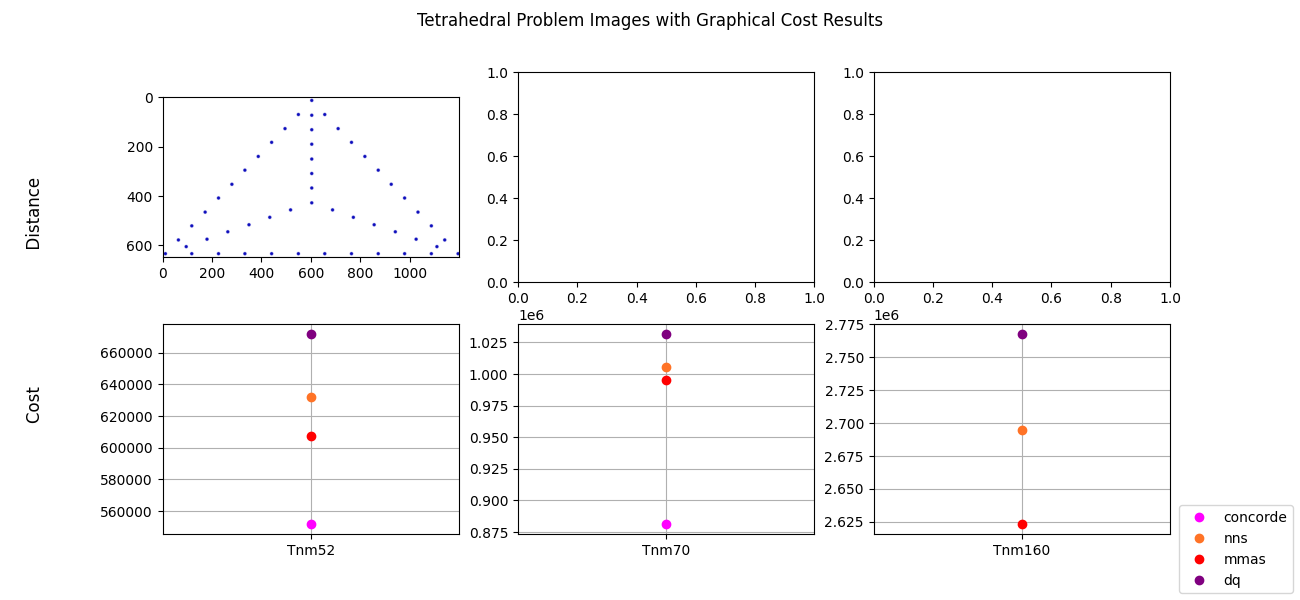
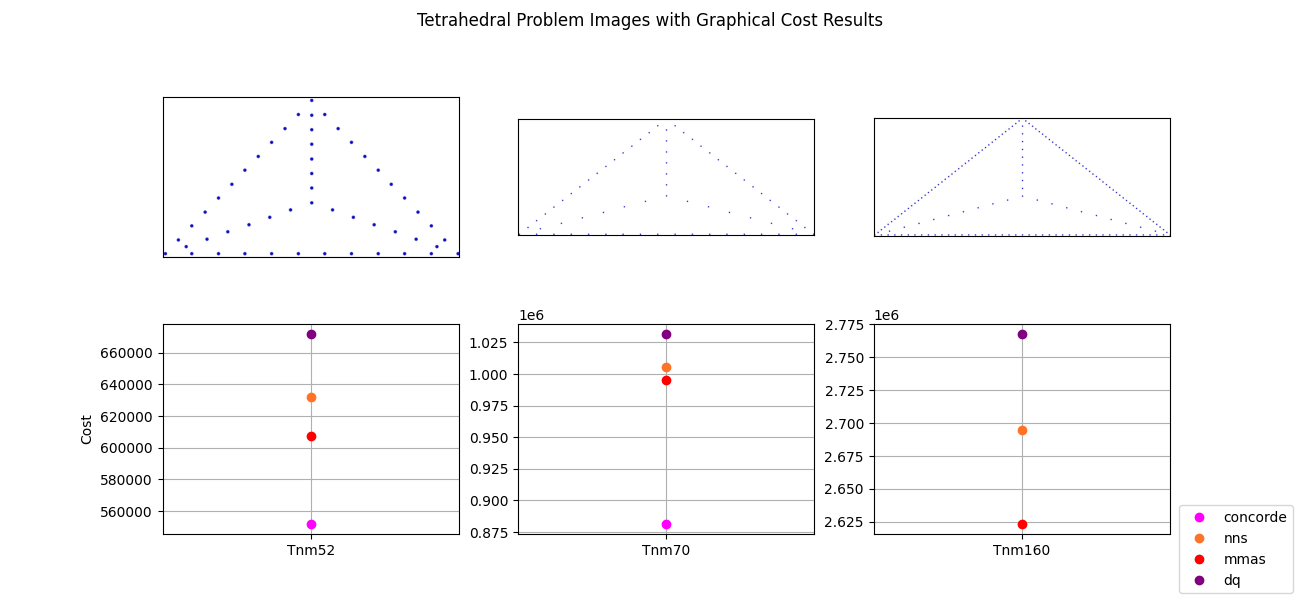
Results generated

diff --git a/final_report/plot_results.py b/final_report/plot_results.py
@@ -5,6 +5,7 @@ Generating plots for the final report. Some disclaimers about this specific code
 
 https://github.com/AGnias47/russo-ukranian-tweet-classification/blob/main/sentiment_analysis/results.py
 https://stackoverflow.com/questions/33958068/matplotlib-how-to-plot-a-line-with-categorical-data-on-the-x-axis
+https://stackoverflow.com/a/10035974/8728749
 
 """
 
@@ -22,7 +23,7 @@ def plot_symmetric():
     fig, ax = plt.subplots(
         nrows=2, ncols=3, figsize=(13, 6), sharex=False, sharey=False
     )
-    # ax[0, 0].imshow(mpimg.imread("final_report/problem_images/berlin52.png"))
+    ax[0, 0].axis("off")
     ax[0, 0].set_xticks([])
     ax[0, 0].set_yticks([])
     ax[0, 1].imshow(mpimg.imread("final_report/problem_images/berlin52.png"))
@@ -45,7 +46,7 @@ def plot_symmetric():
         ax[1, i].plot(problems_symmetric[i], dqn[i], "o", label="dqn")
         ax[1, i].grid(True)
     fig.legend(*ax[1, 0].get_legend_handles_labels(), loc="lower right")
-    fig.supylabel("Cost                          Distance")
+    ax[1,0].set_ylabel("Cost")
     fig.suptitle("Symmetric Problem Images with Graphical Cost Results")
     plt.savefig("final_report/png/symmetric.png")
     plt.show()
@@ -79,42 +80,26 @@ def plot_star():
         ax[1, i].plot(problems_symmetric[i], dqn[i], "o", label="dqn")
         ax[1, i].grid(True)
     fig.legend(*ax[1, 0].get_legend_handles_labels(), loc="lower right")
-    fig.supylabel("Cost                          Distance")
+    ax[1,0].set_ylabel("Cost")
     fig.suptitle("Star Problem Images with Graphical Cost Results")
     plt.savefig("final_report/png/star.png")
     plt.show()
 
 
 def plot_spiral():
-    problems_symmetric = ["spiral79", "dh39"]
-    concorde = [286, 123]
-    mmas = [292, 140]
-    nns = [298, 129]
-    dq = [301, 128]
-    dqn = [306, 155]
-    fig, ax = plt.subplots(nrows=2, ncols=2, figsize=(8, 5), sharex=False, sharey=False)
-    ax[0, 0].imshow(mpimg.imread("final_report/problem_images/spiral79.png"))
-    ax[0, 0].set_xticks([])
-    ax[0, 0].set_yticks([])
-    # ax[0, 1].imshow(mpimg.imread("final_report/problem_images/dh39.png"))
-    # ax[0, 1].set_xticks([])
-    # ax[0, 1].set_yticks([])
-    for i in range(len(problems_symmetric)):
-        ax[1, i].plot(
-            problems_symmetric[i], concorde[i], "o", color="magenta", label="concorde"
-        )
-        ax[1, i].plot(
-            problems_symmetric[i], nns[i], "o", color=[1.0, 0.45, 0.15], label="nns"
-        )
-        ax[1, i].plot(
-            problems_symmetric[i], mmas[i], "o", color=[1.0, 0, 0], label="mmas"
-        )
-        ax[1, i].plot(problems_symmetric[i], dq[i], "o", color="purple", label="dq")
-        ax[1, i].plot(problems_symmetric[i], dqn[i], "o", label="dqn")
-        ax[1, i].grid(True)
-    fig.legend(*ax[1, 0].get_legend_handles_labels(), loc="lower right")
-    fig.supylabel("Cost                          Distance")
-    fig.suptitle("Spiral Problem Images with Graphical Cost Results")
+    fig, ax = plt.subplots(nrows=1, ncols=2, figsize=(10, 3), sharex=False, sharey=False)
+    ax[0].imshow(mpimg.imread("final_report/problem_images/spiral79.png"))
+    ax[0].set_xticks([])
+    ax[0].set_yticks([])
+    ax[1].plot("spiral79", 286, "o", color="magenta", label="concorde")
+    ax[1].plot("spiral79", 292, "o", color=[1.0, 0.45, 0.15], label="nns")
+    ax[1].plot("spiral79", 298, "o", color=[1.0, 0, 0], label="mmas")
+    ax[1].plot("spiral79", 301, "o", color="purple", label="dq")
+    ax[1].plot("spiral79", 306, "o", label="dqn")
+    ax[1].grid(True)
+    ax[1].set_ylabel("Cost")
+    fig.legend(*ax[1].get_legend_handles_labels(), loc="lower right")
+    fig.suptitle("Spiral Problem Image with Graphical Cost Results")
     plt.savefig("final_report/png/spiral.png")
     plt.show()
 
@@ -122,7 +107,6 @@ def plot_spiral():
 def plot_cluster():
     fig, ax = plt.subplots(nrows=1, ncols=2, figsize=(10, 3), sharex=False, sharey=False)
     ax[0].imshow(mpimg.imread("final_report/problem_images/5cluster43.png"))
-    ax[0].set_ylabel("Distance")
     ax[0].set_xticks([])
     ax[0].set_yticks([])
     ax[1].plot("5cluster43", 100, "o", color="magenta", label="concorde")
@@ -150,8 +134,12 @@ def plot_tetrahedral():
     ax[0, 0].imshow(mpimg.imread("final_report/problem_images/Tnm52.png"))
     ax[0, 0].set_xticks([])
     ax[0, 0].set_yticks([])
-    #ax[0, 1].imshow(mpimg.imread("final_report/problem_images/berlin52.png"))
-    #ax[0, 2].imshow(mpimg.imread("final_report/problem_images/a280.png"))
+    ax[0, 1].imshow(mpimg.imread("final_report/problem_images/Tnm70.png"))
+    ax[0, 1].set_xticks([])
+    ax[0, 1].set_yticks([])
+    ax[0, 2].imshow(mpimg.imread("final_report/problem_images/Tnm160.png"))
+    ax[0, 2].set_xticks([])
+    ax[0, 2].set_yticks([])
     for i in range(len(problems_symmetric)):
         try:
             ax[1, i].plot(
@@ -168,7 +156,7 @@ def plot_tetrahedral():
         ax[1, i].plot(problems_symmetric[i], dq[i], "o", color="purple", label="dq")
         ax[1, i].grid(True)
     fig.legend(*ax[1, 0].get_legend_handles_labels(), loc="lower right")
-    fig.supylabel("Cost                          Distance")
+    ax[1,0].set_ylabel("Cost")
     fig.suptitle("Tetrahedral Problem Images with Graphical Cost Results")
     plt.savefig("final_report/png/tetrahedral.png")
     plt.show()
@@ -196,7 +184,7 @@ def plot_asymmetrical_small_medium():
         ax[i].plot(problems_symmetric[i], dqn[i], "o", label="dqn")
         ax[i].grid(True)
     fig.legend(*ax[0].get_legend_handles_labels(), loc="lower right")
-    fig.supylabel("Cost                          Distance")
+    ax[0].set_ylabel("Cost")
     fig.suptitle("Asymmetrical Small-Medium Problems Graphical Cost Results")
     plt.savefig("final_report/png/asymmetric_small-medium.png")
     plt.show()
@@ -204,15 +192,15 @@ def plot_asymmetrical_small_medium():
 
 def plot_asymmetrical_large():
     problems_symmetric = ["rbg323", "rbg358", "rbg403"]
-    optimum = [39, 1776]
-    mmas = [82, 2173]
-    nns = [92, 2374]
-    dq = [92, 2374]
-    dqn = [92, 3046]
-    fig, ax = plt.subplots(nrows=1, ncols=2, figsize=(8, 5), sharex=False, sharey=False)
+    optimum = [1326, 1163, 2465]
+    nns = [1734, 1812, 3535]
+    mmas = [3488, 4180, 5685]
+    dq = [2245, 1817, 3457]
+    dqn = [6119, 6711, 7575]
+    fig, ax = plt.subplots(nrows=1, ncols=3, figsize=(8, 5), sharex=False, sharey=False)
     for i in range(len(problems_symmetric)):
         ax[i].plot(
-            problems_symmetric[i], optimum[i], "o", color="magenta", label="hk/optim"
+            problems_symmetric[i], optimum[i], "o", color="magenta", label="optim"
         )
         ax[i].plot(
             problems_symmetric[i], nns[i], "o", color=[1.0, 0.45, 0.15], label="nns"
@@ -224,15 +212,16 @@ def plot_asymmetrical_large():
         ax[i].plot(problems_symmetric[i], dqn[i], "o", label="dqn")
         ax[i].grid(True)
     fig.legend(*ax[0].get_legend_handles_labels(), loc="lower right")
-    fig.supylabel("Cost                          Distance")
-    fig.suptitle("Asymmetrical Small-Medium Problems Graphical Cost Results")
+    ax[0].set_ylabel("Cost")
+    fig.suptitle("Asymmetrical Large Problems Graphical Cost Results")
     plt.savefig("final_report/png/asymmetric_small-medium.png")
     plt.show()
 
 if __name__ == "__main__":
     plot_symmetric()
-    # plot_star()
-    # plot_spiral()
-    # plot_cluster()
-    # plot_tetrahedral()
-    # plot_asymmetrical_small_medium()
+    plot_star()
+    plot_spiral()
+    plot_cluster()
+    plot_tetrahedral()
+    plot_asymmetrical_small_medium()
+    plot_asymmetrical_large()
